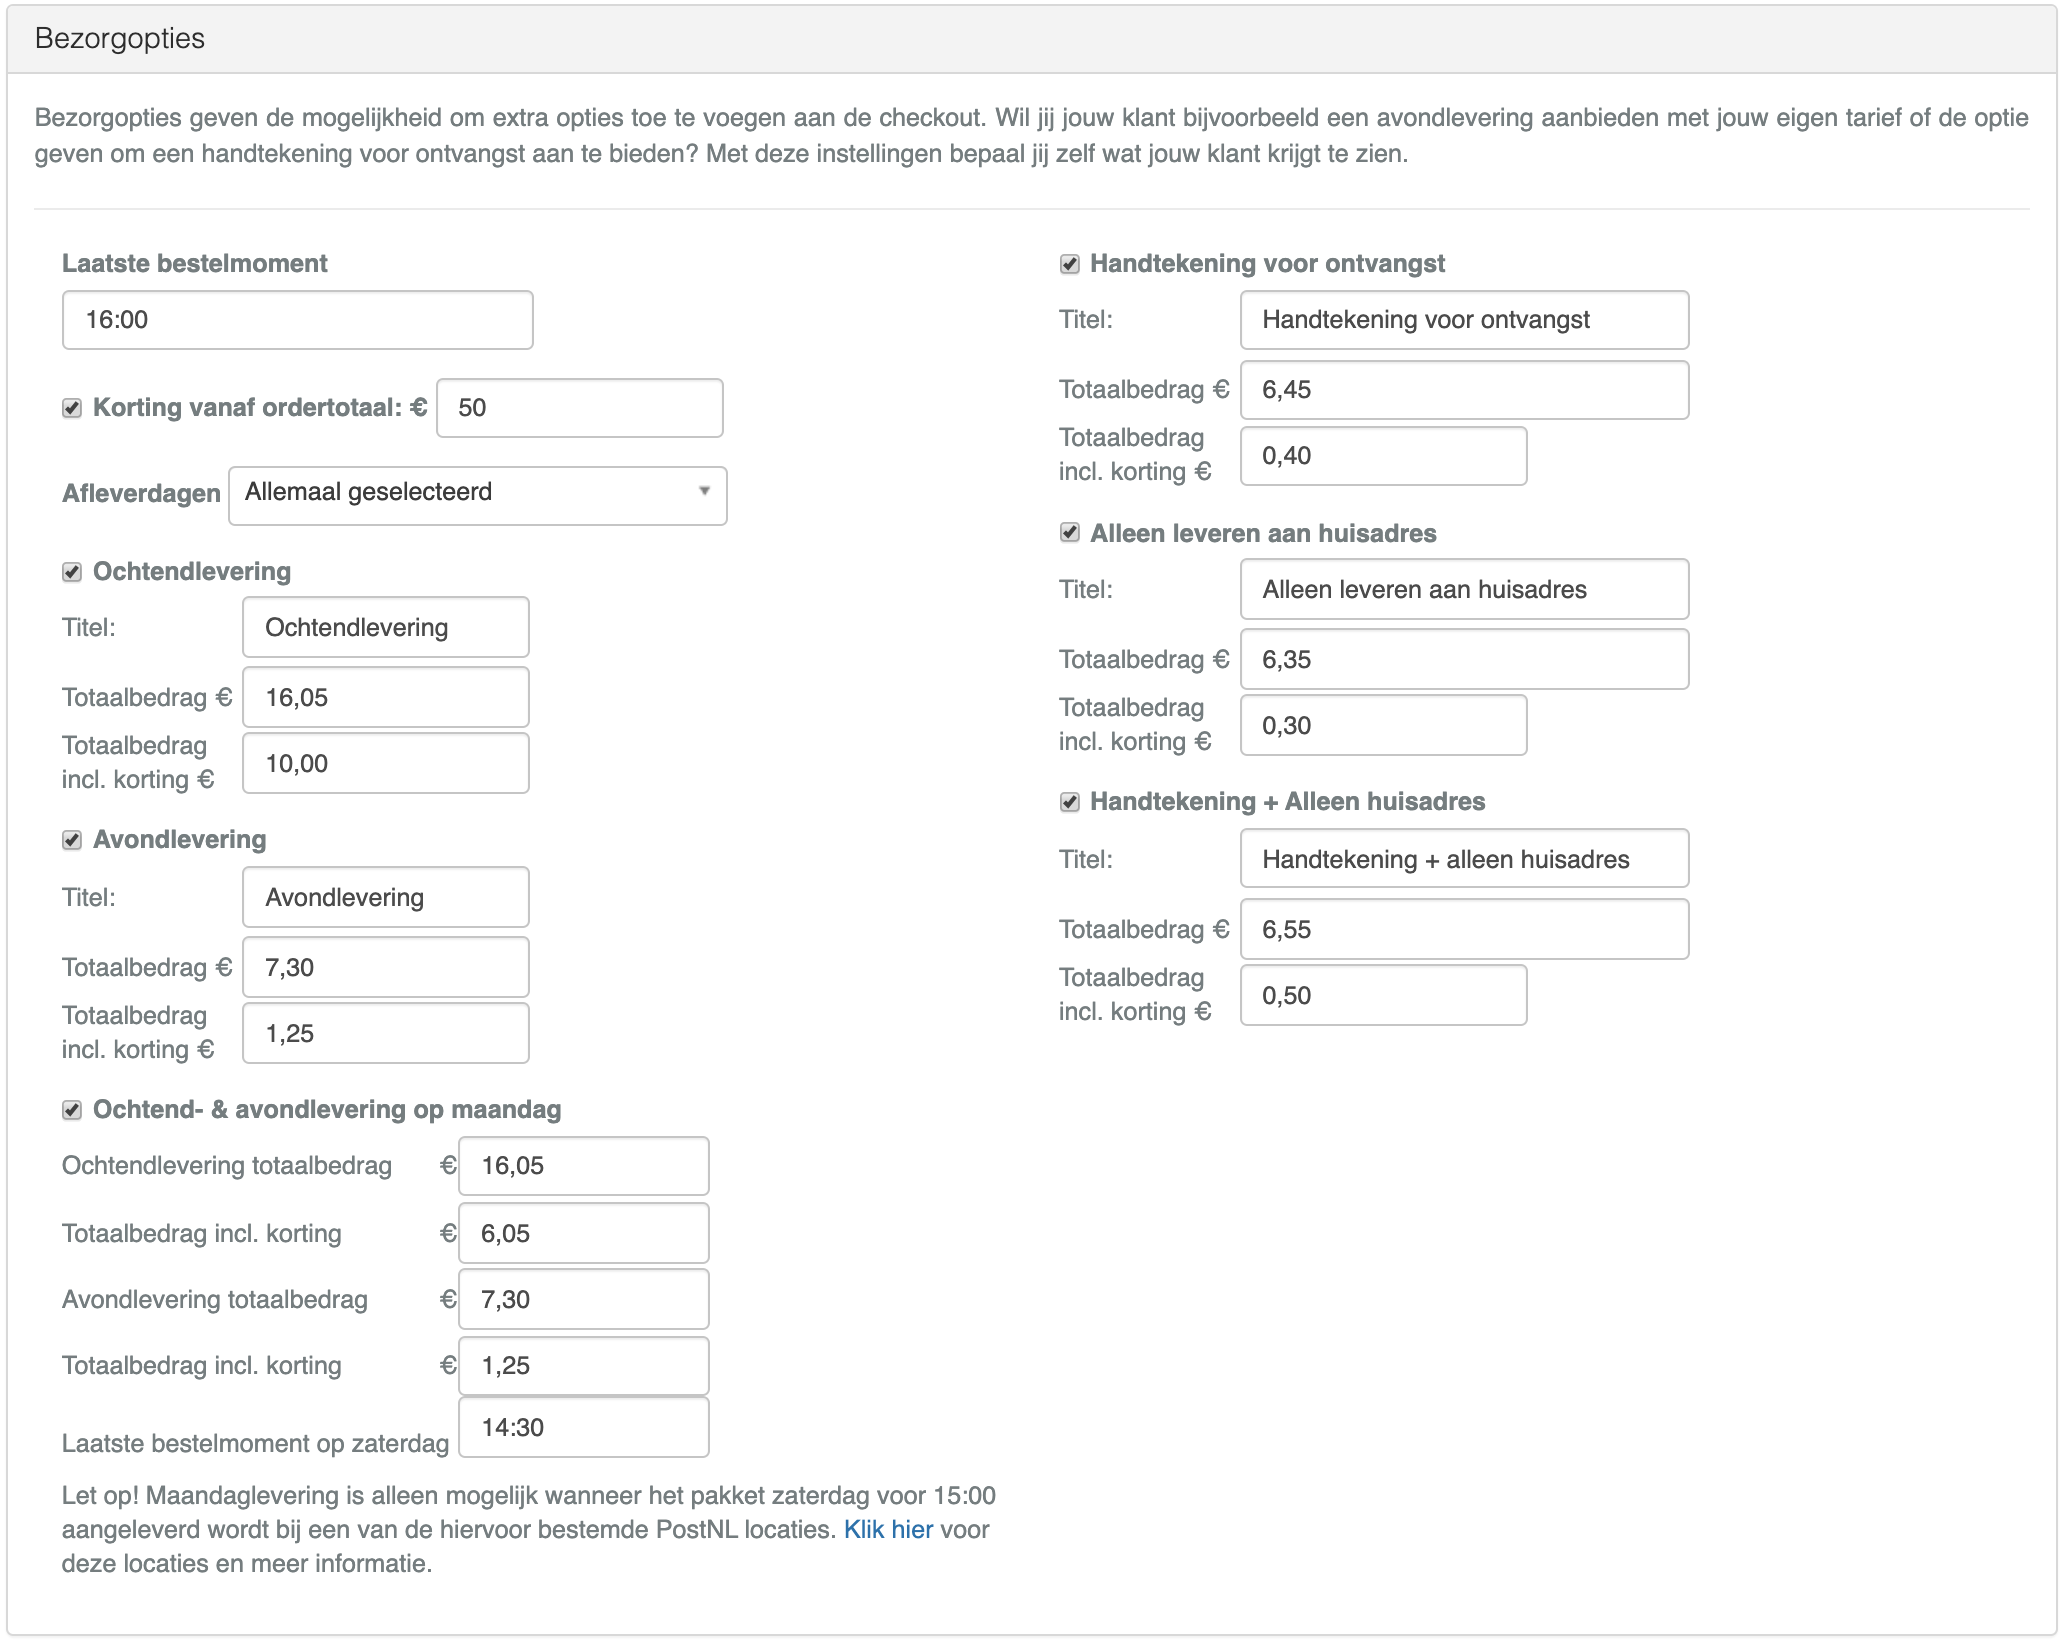
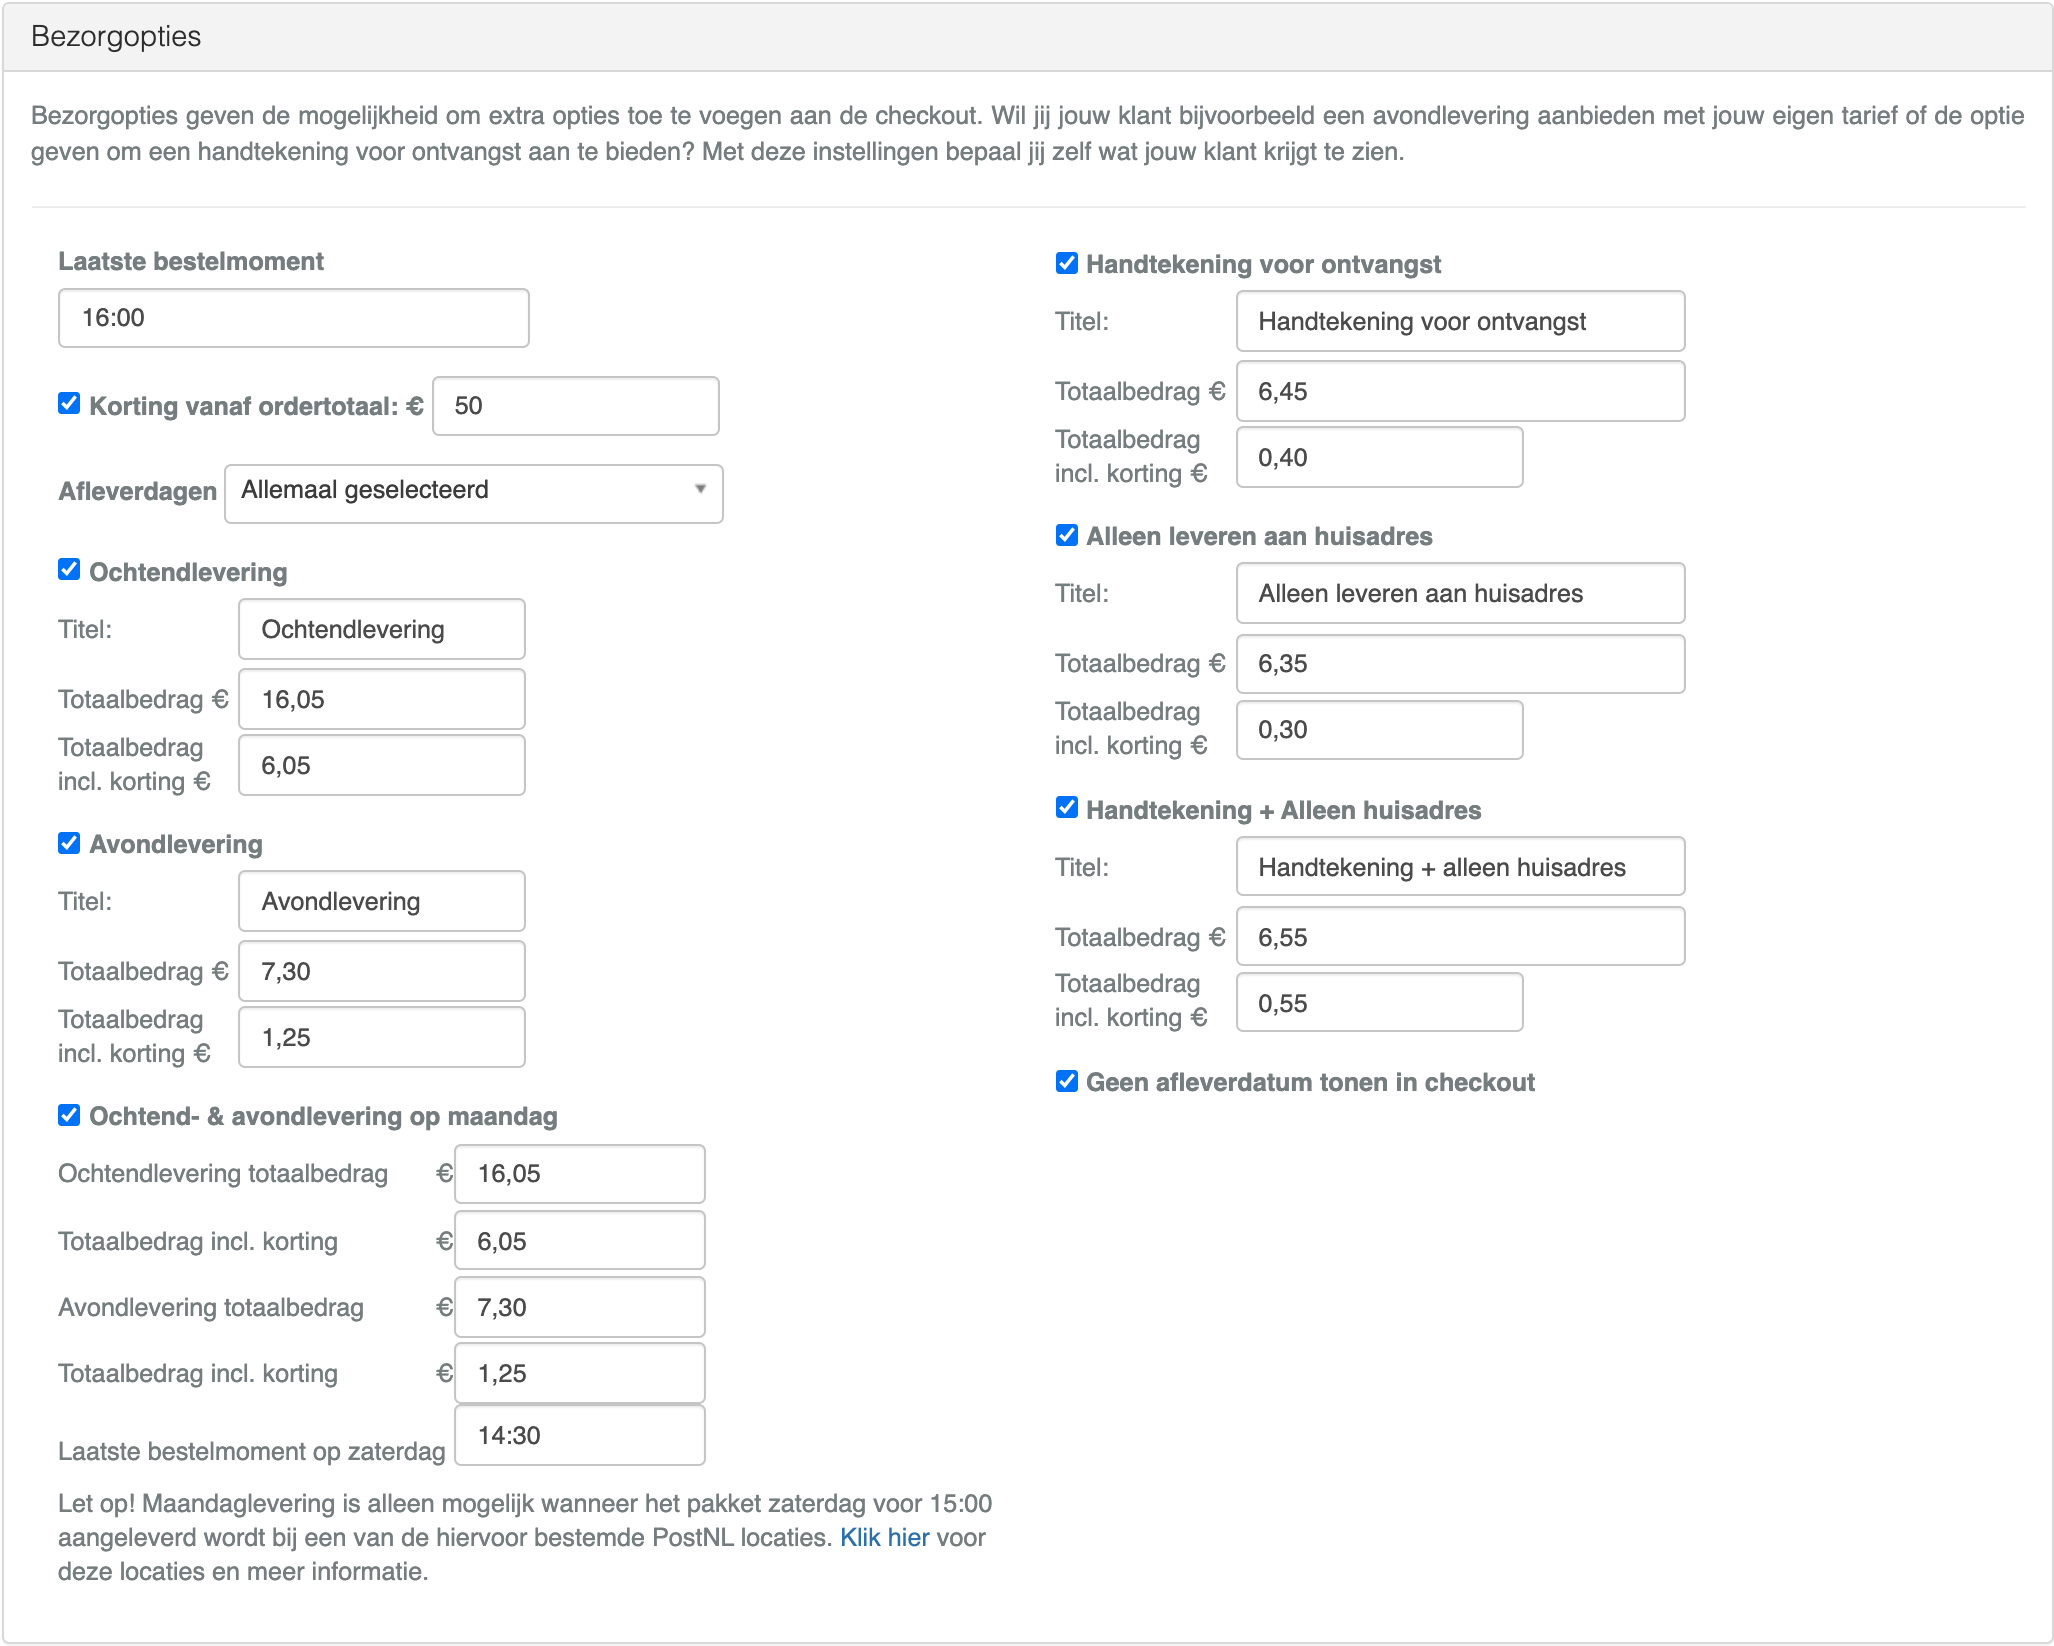
Uitleg hoe bij config te komen toegevoegd en 2 nieuwe features uitgelegd

diff --git a/index.html b/index.html
@@ -69,6 +69,14 @@
                 <h1 id="2">2. Configuratie</h1>
                 <h2 id="2_A">2.1 Standaard exportinstellingen, verzend- en bezorgopties</h2>
                 <p>
+                    Om de MyParcel-app te configureren, klik je vanuit het 'Home'-scherm in de backoffice van je Lightspeed-webshop op <span class="nice">Apps</span>. Klik aan de linkerkant op <span class="nice">App Store</span>
+                    en zoek in de zoekbalk rechtsboven naar 'myparcel'. Klik op de MyParcel-app om de informatiepagina van de app te openen en klik daarna op <span class="nice">Ga naar App</span>.
+                    De configuratiepagina wordt geopend op een nieuw tabblad. <br><br>
+                    
+                    <img alt="" src="media/Lightspeed_App_Openen4.gif" />
+                    
+                </p>
+                <p>
                     <b> API-key </b><br />
                     Om zendingen naar jouw MyParcel-account te kunnen exporteren, is een API-key noodzakelijk. Deze kan je in jouw MyParcel-backoffice vinden door 
                     rechts bovenin op het <img height="25" alt="" src="media/myparcel_account_icoon.png">-teken te klikken en vervolgens naar <span class="nice">Instellingen > Webshops > Algemeen</span> te gaan.
@@ -92,15 +100,21 @@
                 <p>
                     <b> Verzendopties </b><br />
                     Als je alle Nederlandse pakketzendingen standaard van een verzendoptie wilt voorzien <i>(bijvoorbeeld: verzerkerd verzenden, handtekening voor ontvangst, etc.)</i>, kan je deze hier selecteren. Let op dat er aan sommige verzendopties extra kosten zijn verbonden. Je kunt deze tarieven in de MyParcel-backoffice
-                    bovenaan de pagina bij <span class="nice">Financieel</span> > <span class="nice">Tarieven</span> berekenen.
+                    bovenaan de pagina bij <span class="nice">Financieel</span> > <span class="nice">Tarieven</span> berekenen.<br><br>
+                    
+                    Je kunt er ook voor kiezen om bij aflevering te laten controleren of de ontvanger 18+ is door <u>Leeftijdscontrole</u> aan te zetten. 
+                
                 </p>
                 <p>
                     <b> Bezorgopties </b><br />
-                    Het is ook mogelijk om je klanten te laten kiezen voor extra bezorgopties. Uit welke bezorgopties je klanten kunnen kiezen, stel je hier in. <b>Let op:</b> omdat de bezorgopties op zichzelf staande verzendmethoden zijn, vul je hier het <u>totaalbedrag van de verzendkosten</u> in.
+                    Het is ook mogelijk om je klanten te laten kiezen voor extra bezorgopties.
+                    Uit welke bezorgopties je klanten kunnen kiezen, stel je hier in. <b>Let op:</b> omdat de bezorgopties op zichzelf staande verzendmethoden zijn, vul je hier het <u>totaalbedrag van de verzendkosten</u> in.<br><br>
+                    
+                    Wanneer je liever geen datum toont bij de bezorgopties Ochtend- en avondlevering, vink dan de optie <u>Geen afleverdatum tonen in checkout</u> aan.
                 </p>
                 <img alt="" src="media/Lightspeed_Bezorgopties.png"> 
                 <p>
-                    Hier geef je ook aan op welke dagen jij zendingen aflevert bij PostNL en vanaf welk bedrag jij je zending gratis verstuurt.
+                    Hier geef je ook aan op welke dagen jij zendingen aflevert bij PostNL en vanaf welk bedrag jij je de zending met de bezorgoptie gratis verstuurt.
                 </p>
                 <p>
                 <h2 id="2_B">2.2 Pakketvoorkeuren</h2>
@@ -131,7 +145,7 @@
                 <p>
                     Om <b>Ophalen bij een PostNL-locatie</b> te tonen in je checkout, is de standaard plugin van PostNL benodigd.
                     Allereerst klik je aan de linkerkant in het menu voor <span class="nice">Instellingen</span> en vervolgens op <span class="nice">Verzendmethoden</span>.
-                    Klik dan op <span class="nice">PostNL instellen</span> en schakel bij <b>Login informatie</b> de integratie in. <u>De gegevens eronder hoeven niet   ingevuld te worden!</u>
+                    Klik dan op <span class="nice">PostNL instellen</span> en schakel bij <b>Login informatie</b> de integratie in. <u>De gegevens eronder hoeven niet ingevuld te worden!</u>
                 </p>
                     <img alt="" src="media/Lightspeed_PG1.png">
                 <p>
@@ -139,14 +153,27 @@
                     Scroll verder naar beneden en vul bij <span class="nice">Afzenderadres</span> jouw gegevens in.
                     <u>Sla deze instellingen tussentijds op voor je verder gaat met het laatste gedeelte van de instellingen.</u></br></br>
                     
-                    Tot slot moet er een tarief aan <b>Ophalen bij PostNL</b> toegevoegd worden. Wanneer dit nog niet is gedaan, zal de bezorgoptie <u>niet</u> zichtbaar zijn in de checkout. Voeg een tarief toe door onderaan de pagina op <span class="nice">Voeg prijzen toe</span> te klikken. Kies vervolgens voor de verzendoptie 'PostNL - PakjeGemak' en activeer de verzendmethode door <b>Verzendmethode toestaan</b> aan te vinken. Vul tot slot de <b>verzendkosten</b> en <b>Landen</b> aan en sla de pagina op. Vanaf nu kunnen jouw klanten ook in de checkout een PostNL-locatie selecteren! 
+                    Tot slot moet er een tarief aan <b>Ophalen bij PostNL</b> toegevoegd worden. Wanneer dit nog niet is gedaan, zal de bezorgoptie <u>niet</u> zichtbaar zijn in de checkout.
+                    Voeg een tarief toe door onderaan de pagina op <span class="nice">Voeg prijzen toe</span> te klikken.
+                    Kies vervolgens voor de verzendoptie 'PostNL - PakjeGemak' en activeer de verzendmethode door <b>Verzendmethode toestaan</b> aan te vinken.
+                    Vul tot slot de <b>verzendkosten</b> en <b>Landen</b> aan en sla de pagina op. Vanaf nu kunnen jouw klanten ook in de checkout een PostNL-locatie selecteren! 
                 </p>
                 <img alt="" src="media/ophalen_bij_postnl_checkout.png">
                 <h2 id="2_D">2.4 Veelgestelde vragen over de configuratie van de plugin</h2>
+                 <p>
+                    <h3>Hoe wijzig ik de bezorgopties in mijn checkout?</h3>
+                    <i>Om bezorgopties aan of uit te zetten of de prijs aan te passen, klik je vanuit het 'Home'-scherm in de backoffice van je Lightspeed-webshop op <span class="nice">Apps</span>.
+                    Klik aan de linkerkant op <span class="nice">App Store</span> en zoek in de zoekbalk rechtsboven naar 'myparcel'.
+                    Klik op de MyParcel-app om de informatiepagina van de app te openen en klik daarna op <span class="nice">Ga naar App</span>.
+                    De configuratiepagina wordt geopend op een nieuw tabblad.</i>
+                </p>
 				<p>
                 <h3>Wat houdt de korting bij de bezorgopties in?</h3>
-                    <i>Binnen Lightspeed is het mogelijk om bij de standaard verzendmethoden gratis verzending aan te bieden. Om jou hier meer vrijheid in te geven, werken we met een korting per bezorgoptie. Zo kan je jouw klant bijvoorbeeld vanaf €50,- de verzendkosten kosteloos aanbieden, maar betaalt hij/zij toch voor de extra dienst die hij/zij wilt afnemen. In het onderstaande voorbeeld is avondlevering geactiveerd. De klant betaalt voor deze verzendmethode standaard €7,30 maar wanneer het bestelbedrag boven de €50,- komt, zal dit €1,25 zijn. </i>
-                </p> 
+                    <i>Binnen Lightspeed is het mogelijk om bij de standaard verzendmethoden gratis verzending aan te bieden. Om jou hier meer vrijheid in te geven, werken we met een korting per bezorgoptie.
+                    Zo kan je jouw klant bijvoorbeeld vanaf €50,- de verzendkosten kosteloos aanbieden, maar betaalt hij/zij toch voor de extra dienst die hij/zij wilt afnemen.
+                    In het onderstaande voorbeeld is avondlevering geactiveerd. De klant betaalt voor deze verzendmethode standaard €7,30 maar wanneer het bestelbedrag boven de €50,- komt, zal dit €1,25 zijn. </i>
+                </p>
+               
                 <img alt="" src="media/plugin_instellingen_bezorgopties.png">
                 <h1 id="3">3. Gebruik plugin</h1>
                 <h2 id="3_A">3.1 Aanmaken van één verzendlabel</h2>
@@ -155,7 +182,8 @@
                 </p>
                 <h2 id="3_B">3.2 Aanmaken meerdere verzendlabels</h2>
                 <p>
-                    Om meerdere orders in één keer aan te maken, kan je de optie <span class="nice">Wanneer doorsturen naar MyParcel?</span> het best op <b>Orders met status 'Niet verzonden'</b> zetten. Zo worden alle nieuwe orders direct naar MyParcel geëxporteerd.
+                    Om meerdere orders in één keer aan te maken, kan je de optie <span class="nice">Wanneer doorsturen naar MyParcel?</span> het best op <b>Orders met status 'Niet verzonden'</b> zetten.
+                    Zo worden alle nieuwe orders direct naar MyParcel geëxporteerd.
                 </p>
                 <h2 id="3_C">3.3 Aanpassen van een enkele zending</h2>
                 <p>
@@ -164,9 +192,11 @@
                 <h2 id="3_D">3.4 Veelgestelde vragen over het gebruik van de plugin</h2>
 				<p>
                 <h3>Waarom wordt mijn zending niet naar MyParcel geëxporteerd?</h3>
-                    <i>Op het moment dat een zending niet in de MyParcel backoffice terechtkomt, is het belangrijk om te controleren of de zending in de Lightspeed-order de juiste verzendstatus (verzonden / niet verzonden) heeft of dat een 'trigger'-woord in de verzendmethode staat. Als dit niet het geval is, zal de order niet naar MyParcel worden geëxporteerd.
-                    	<br><br>
-                    Daarnaast is het mogelijk dat gegevens die door jouw klant zijn ingevuld, niet "voldoen" aan de verwachtingen van ons systeem. Denk bijvoorbeeld aan het missen van een letter in een Nederlandse postcode of meer dan 6 karakters in het toevoegingen-veld. 
+                    <i>Op het moment dat een zending niet in de MyParcel backoffice terechtkomt, is het belangrijk om te controleren of de zending in de Lightspeed-order de juiste verzendstatus (verzonden / niet verzonden) heeft of dat een 'trigger'-woord in de verzendmethode staat.
+                    Als dit niet het geval is, zal de order niet naar MyParcel worden geëxporteerd.<br><br>
+                    	
+                    Daarnaast is het mogelijk dat gegevens die door jouw klant zijn ingevuld, niet "voldoen" aan de verwachtingen van ons systeem.
+                    Denk bijvoorbeeld aan het missen van een letter in een Nederlandse postcode of meer dan 6 karakters in het toevoegingen-veld. 
                     </i>
                 </p> 
                 <footer class="site-footer">
